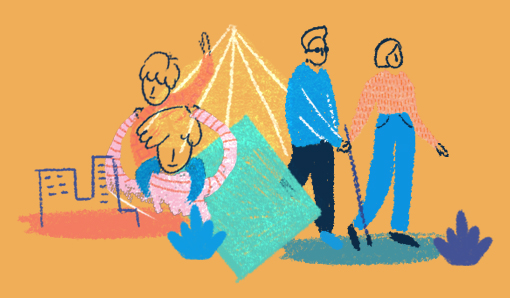
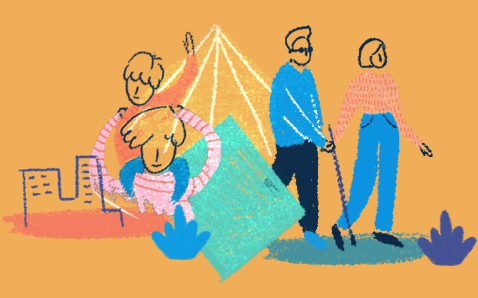
Cambio ancho de imágenes

diff --git a/unlogged/descripcion-sicba.html b/unlogged/descripcion-sicba.html
@@ -25,16 +25,16 @@
             background-size: auto 100% ;
             background-position: repeat-x ;
             background-color: #f0ae58;
-            padding-top: 3%;
-            padding-bottom: 3%;
+            padding-top: 6%;
+            padding-bottom: 6%;
         }
 
         #diamante-cuidado{
-            height: 320px
+            width: 350px
         }
 
         #definicion-cuidado{
-            height: 298px
+            width: 350px
         }
 
         .titulo_descripcion { font-weight: bolder; color: #3a4c9b; font-size: 1.5em }
@@ -82,6 +82,7 @@
                     los hogares, los&nbsp;hogares con las organizaciones de la sociedad civil.                     
                 </div>
             </div>
+            <img id="definicion-cuidado" src="img/definicion-cuidado.jpg">
         </div>
         <div id="dis"></div>
         <div id="may"></div>
